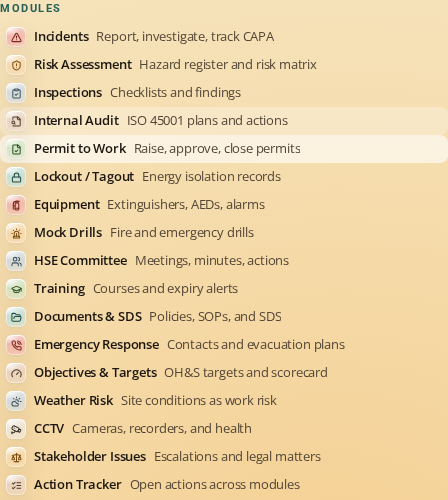
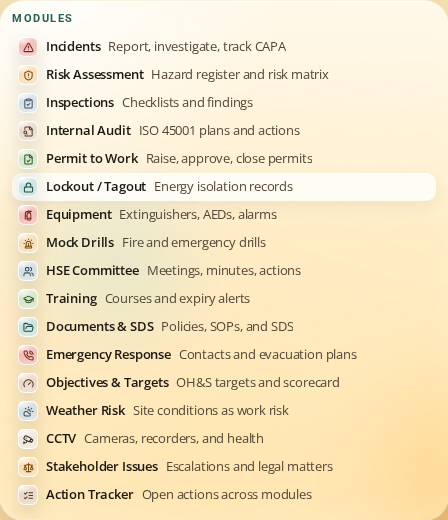
Deepen login glass and strengthen its motion
The sign-in form and module roster now sit on translucent frost with a
specular rim, a crossing sheen, and drifting amber/white orbs behind them.
Lines slide in harder and a brighter wash travels the list. Reduced motion
freezes the animation. The pair still fits a normal desktop viewport.

diff --git a/src/index.css b/src/index.css
@@ -542,32 +542,155 @@ thead {
   opacity: 0.18;
 }
 
-/* Sign-in module lines. A wash travels down the list so the roster feels
-   alive without tiles or a looping marquee. Hover wins over the wash.
-   Reduced motion drops the cycle; the marks stay. */
+/* Sign-in glass. Scoped to `.login-stage` so the rest of the app keeps the
+   quieter card. Panels are translucent frost (blur + specular), orbs drift
+   behind them, and a sheen crosses each pane. Reduced motion freezes it. */
+.login-stage {
+  position: relative;
+  isolation: isolate;
+}
+.login-orb {
+  position: absolute;
+  z-index: 0;
+  border-radius: 999px;
+  pointer-events: none;
+  filter: blur(36px);
+  animation: login-float 8s ease-in-out infinite;
+}
+.login-orb-a {
+  top: -48px;
+  left: -36px;
+  width: 200px;
+  height: 200px;
+  background: rgba(255, 255, 255, 0.72);
+}
+.login-orb-b {
+  right: -48px;
+  bottom: -56px;
+  width: 240px;
+  height: 180px;
+  background: rgba(232, 163, 61, 0.5);
+  animation-delay: -3.5s;
+}
+.login-orb-c {
+  top: 40%;
+  left: 42%;
+  width: 140px;
+  height: 140px;
+  background: rgba(109, 179, 170, 0.35);
+  animation-delay: -6s;
+}
+@keyframes login-float {
+  0%,
+  100% {
+    transform: translate3d(0, 0, 0) scale(1);
+  }
+  50% {
+    transform: translate3d(14px, -18px, 0) scale(1.08);
+  }
+}
+.login-glass {
+  position: relative;
+  z-index: 1;
+  overflow: hidden;
+  background-color: rgba(255, 255, 255, 0.34) !important;
+  background-image:
+    radial-gradient(90% 70% at 12% 0%, rgba(255, 255, 255, 0.72), transparent 55%),
+    linear-gradient(165deg, rgba(255, 255, 255, 0.42), rgba(255, 255, 255, 0.16)) !important;
+  backdrop-filter: blur(28px) saturate(1.65);
+  -webkit-backdrop-filter: blur(28px) saturate(1.65);
+  box-shadow:
+    inset 0 1px 0 rgba(255, 255, 255, 0.92),
+    inset 0 -12px 24px rgba(255, 255, 255, 0.12),
+    0 0 0 1px rgba(255, 255, 255, 0.62),
+    0 18px 44px rgba(38, 33, 26, 0.12) !important;
+}
+.login-glass::before {
+  content: '';
+  position: absolute;
+  inset: 0;
+  pointer-events: none;
+  background: linear-gradient(180deg, rgba(255, 255, 255, 0.5), transparent 46%);
+}
+.login-glass::after {
+  content: '';
+  position: absolute;
+  top: -50%;
+  left: -70%;
+  width: 42%;
+  height: 200%;
+  pointer-events: none;
+  background: linear-gradient(
+    100deg,
+    transparent 0%,
+    rgba(255, 255, 255, 0.08) 40%,
+    rgba(255, 255, 255, 0.72) 50%,
+    rgba(255, 255, 255, 0.08) 60%,
+    transparent 100%
+  );
+  transform: rotate(16deg);
+  animation: login-sheen 6.5s ease-in-out infinite;
+}
+.login-glass > * {
+  position: relative;
+  z-index: 1;
+}
+@keyframes login-sheen {
+  0%,
+  55% {
+    left: -70%;
+  }
+  100% {
+    left: 130%;
+  }
+}
+.login-stage .glass-mark {
+  backdrop-filter: blur(18px) saturate(1.6);
+  -webkit-backdrop-filter: blur(18px) saturate(1.6);
+  box-shadow:
+    inset 0 1px 0 rgba(255, 255, 255, 0.95),
+    inset 0 0 0 1px rgba(255, 255, 255, 0.55),
+    0 8px 18px rgba(38, 33, 26, 0.14);
+}
 @keyframes login-line-glow {
   0%,
-  4% {
-    background-color: rgba(255, 255, 255, 0.62);
+  6% {
+    background-color: rgba(255, 255, 255, 0.78);
+    box-shadow:
+      inset 0 1px 0 rgba(255, 255, 255, 0.9),
+      0 6px 16px rgba(38, 33, 26, 0.06);
   }
-  10%,
+  14%,
   100% {
     background-color: transparent;
+    box-shadow: none;
   }
 }
 .login-line {
-  border-radius: 8px;
-  animation: login-line-glow 22s ease-in-out infinite;
+  border-radius: 10px;
+  animation: login-line-glow 16s ease-in-out infinite;
+  transition:
+    transform 0.2s cubic-bezier(0.23, 1, 0.32, 1),
+    background-color 0.2s ease;
 }
 .login-line:hover {
-  background-color: rgba(255, 255, 255, 0.7);
+  background-color: rgba(255, 255, 255, 0.62);
+  transform: translateX(4px);
+  box-shadow:
+    inset 0 1px 0 rgba(255, 255, 255, 0.9),
+    0 8px 18px rgba(38, 33, 26, 0.08);
 }
 .login-line:hover .glass-mark {
-  transform: scale(1.06);
+  transform: scale(1.12);
 }
 @media (prefers-reduced-motion: reduce) {
+  .login-orb,
+  .login-glass::after,
   .login-line {
     animation: none;
+  }
+  .login-line:hover {
+    transform: none;
   }
 }
 

diff --git a/src/pages/auth/AuthLayout.jsx b/src/pages/auth/AuthLayout.jsx
@@ -15,11 +15,11 @@ import BrandMark from '../../shared/branding/BrandMark'
 export default function AuthLayout({ title, subtitle, children, footer, showcase }) {
   const reduce = useReducedMotion()
   const brand = (
-    <div className="mb-4 flex flex-col items-center px-1 text-center sm:mb-6">
+    <div
+      className={`flex flex-col items-center px-1 text-center ${showcase ? 'mb-3' : 'mb-4 sm:mb-6'}`}
+    >
       <BrandMark className="mb-2.5 sm:mb-3" size="lg" alt="WEHS" />
-      <h1 className="text-[22px] font-bold tracking-[-0.02em] text-ink-900 sm:text-2xl">
-        {title}
-      </h1>
+      <h1 className="text-[22px] font-bold tracking-[-0.02em] text-ink-900 sm:text-2xl">{title}</h1>
       {subtitle && (
         <p className="mt-1 max-w-[28ch] text-[13px] leading-snug text-ink-500 sm:max-w-none sm:text-sm sm:leading-normal">
           {subtitle}
@@ -52,9 +52,20 @@ export default function AuthLayout({ title, subtitle, children, footer, showcase
         transition={{ duration: 0.35, ease: [0.23, 1, 0.32, 1] }}
       >
         {showcase ? (
-          <div className="grid items-center gap-6 lg:grid-cols-[20rem_minmax(0,1fr)] lg:gap-8">
-            <div className="mx-auto w-full max-w-md lg:mx-0">{panel}</div>
-            {showcase}
+          <div className="login-stage grid items-center gap-6 lg:grid-cols-[20rem_minmax(0,1fr)] lg:gap-8">
+            <span aria-hidden="true" className="login-orb login-orb-a" />
+            <span aria-hidden="true" className="login-orb login-orb-b" />
+            <span aria-hidden="true" className="login-orb login-orb-c" />
+            <div className="relative z-[1] mx-auto w-full max-w-md lg:mx-0">
+              {brand}
+              <div className="login-glass card p-5 sm:p-6">{children}</div>
+              {footer && (
+                <div className="mt-3 px-1 text-center text-[13px] leading-relaxed text-ink-600">
+                  {footer}
+                </div>
+              )}
+            </div>
+            <div className="relative z-[1]">{showcase}</div>
           </div>
         ) : (
           <div className="mx-auto w-full max-w-md">{panel}</div>

diff --git a/src/pages/auth/LoginModules.jsx b/src/pages/auth/LoginModules.jsx
@@ -3,9 +3,9 @@
 //
 // A line list, not tiles. Registry descriptions are for the signed-in
 // dashboard; here each module is one line (mark, name, brief) so the form and
-// the list still share a viewport. The mark is the registry icon on a small
-// Liquid Glass disc. Lines fade in staggered, and a soft wash travels down
-// the list — motion-reduce drops both.
+// the list still share a viewport. The roster sits in its own frost pane.
+// Lines slide in, a wash travels the list, and a sheen crosses the pane.
+// motion-reduce drops the motion; the glass stays.
 // ─────────────────────────────────────────────────────────────────────────────
 import { motion, useReducedMotion } from 'framer-motion'
 import { MODULES } from '../../shared/modules/registry'
@@ -14,7 +14,10 @@ import { loginBrief } from './loginBriefs'
 export default function LoginModules() {
   const reduce = useReducedMotion()
   return (
-    <section aria-labelledby="login-modules-heading" className="mx-auto w-full max-w-md lg:mx-0">
+    <section
+      aria-labelledby="login-modules-heading"
+      className="login-glass mx-auto w-full max-w-md rounded-3xl px-3 py-2.5 lg:mx-0"
+    >
       <h2
         id="login-modules-heading"
         className="text-[11px] font-semibold uppercase tracking-[0.14em] text-brand-700"
@@ -29,11 +32,11 @@ export default function LoginModules() {
               key={m.key}
               className="login-line flex items-center gap-2 px-1.5 py-1 text-[12.5px] leading-tight"
               style={{ animationDelay: `${i * 1.25}s` }}
-              initial={reduce ? false : { opacity: 0, x: 10 }}
+              initial={reduce ? false : { opacity: 0, x: 18 }}
               animate={{ opacity: 1, x: 0 }}
               transition={{
-                duration: 0.35,
-                delay: reduce ? 0 : i * 0.035,
+                duration: 0.45,
+                delay: reduce ? 0 : i * 0.045,
                 ease: [0.23, 1, 0.32, 1],
               }}
             >

diff --git a/src/pages/auth/LoginModules.test.jsx b/src/pages/auth/LoginModules.test.jsx
@@ -22,6 +22,7 @@ describe('LoginModules', () => {
     expect(container.querySelector('.glass-tile')).toBeNull()
     const section = container.querySelector('section')
     expect(section.className).toMatch(/max-w-md/)
+    expect(section.className).toMatch(/login-glass/)
     const rows = container.querySelectorAll('li')
     expect(rows.length).toBe(MODULES.length)
     rows.forEach((row) => {
